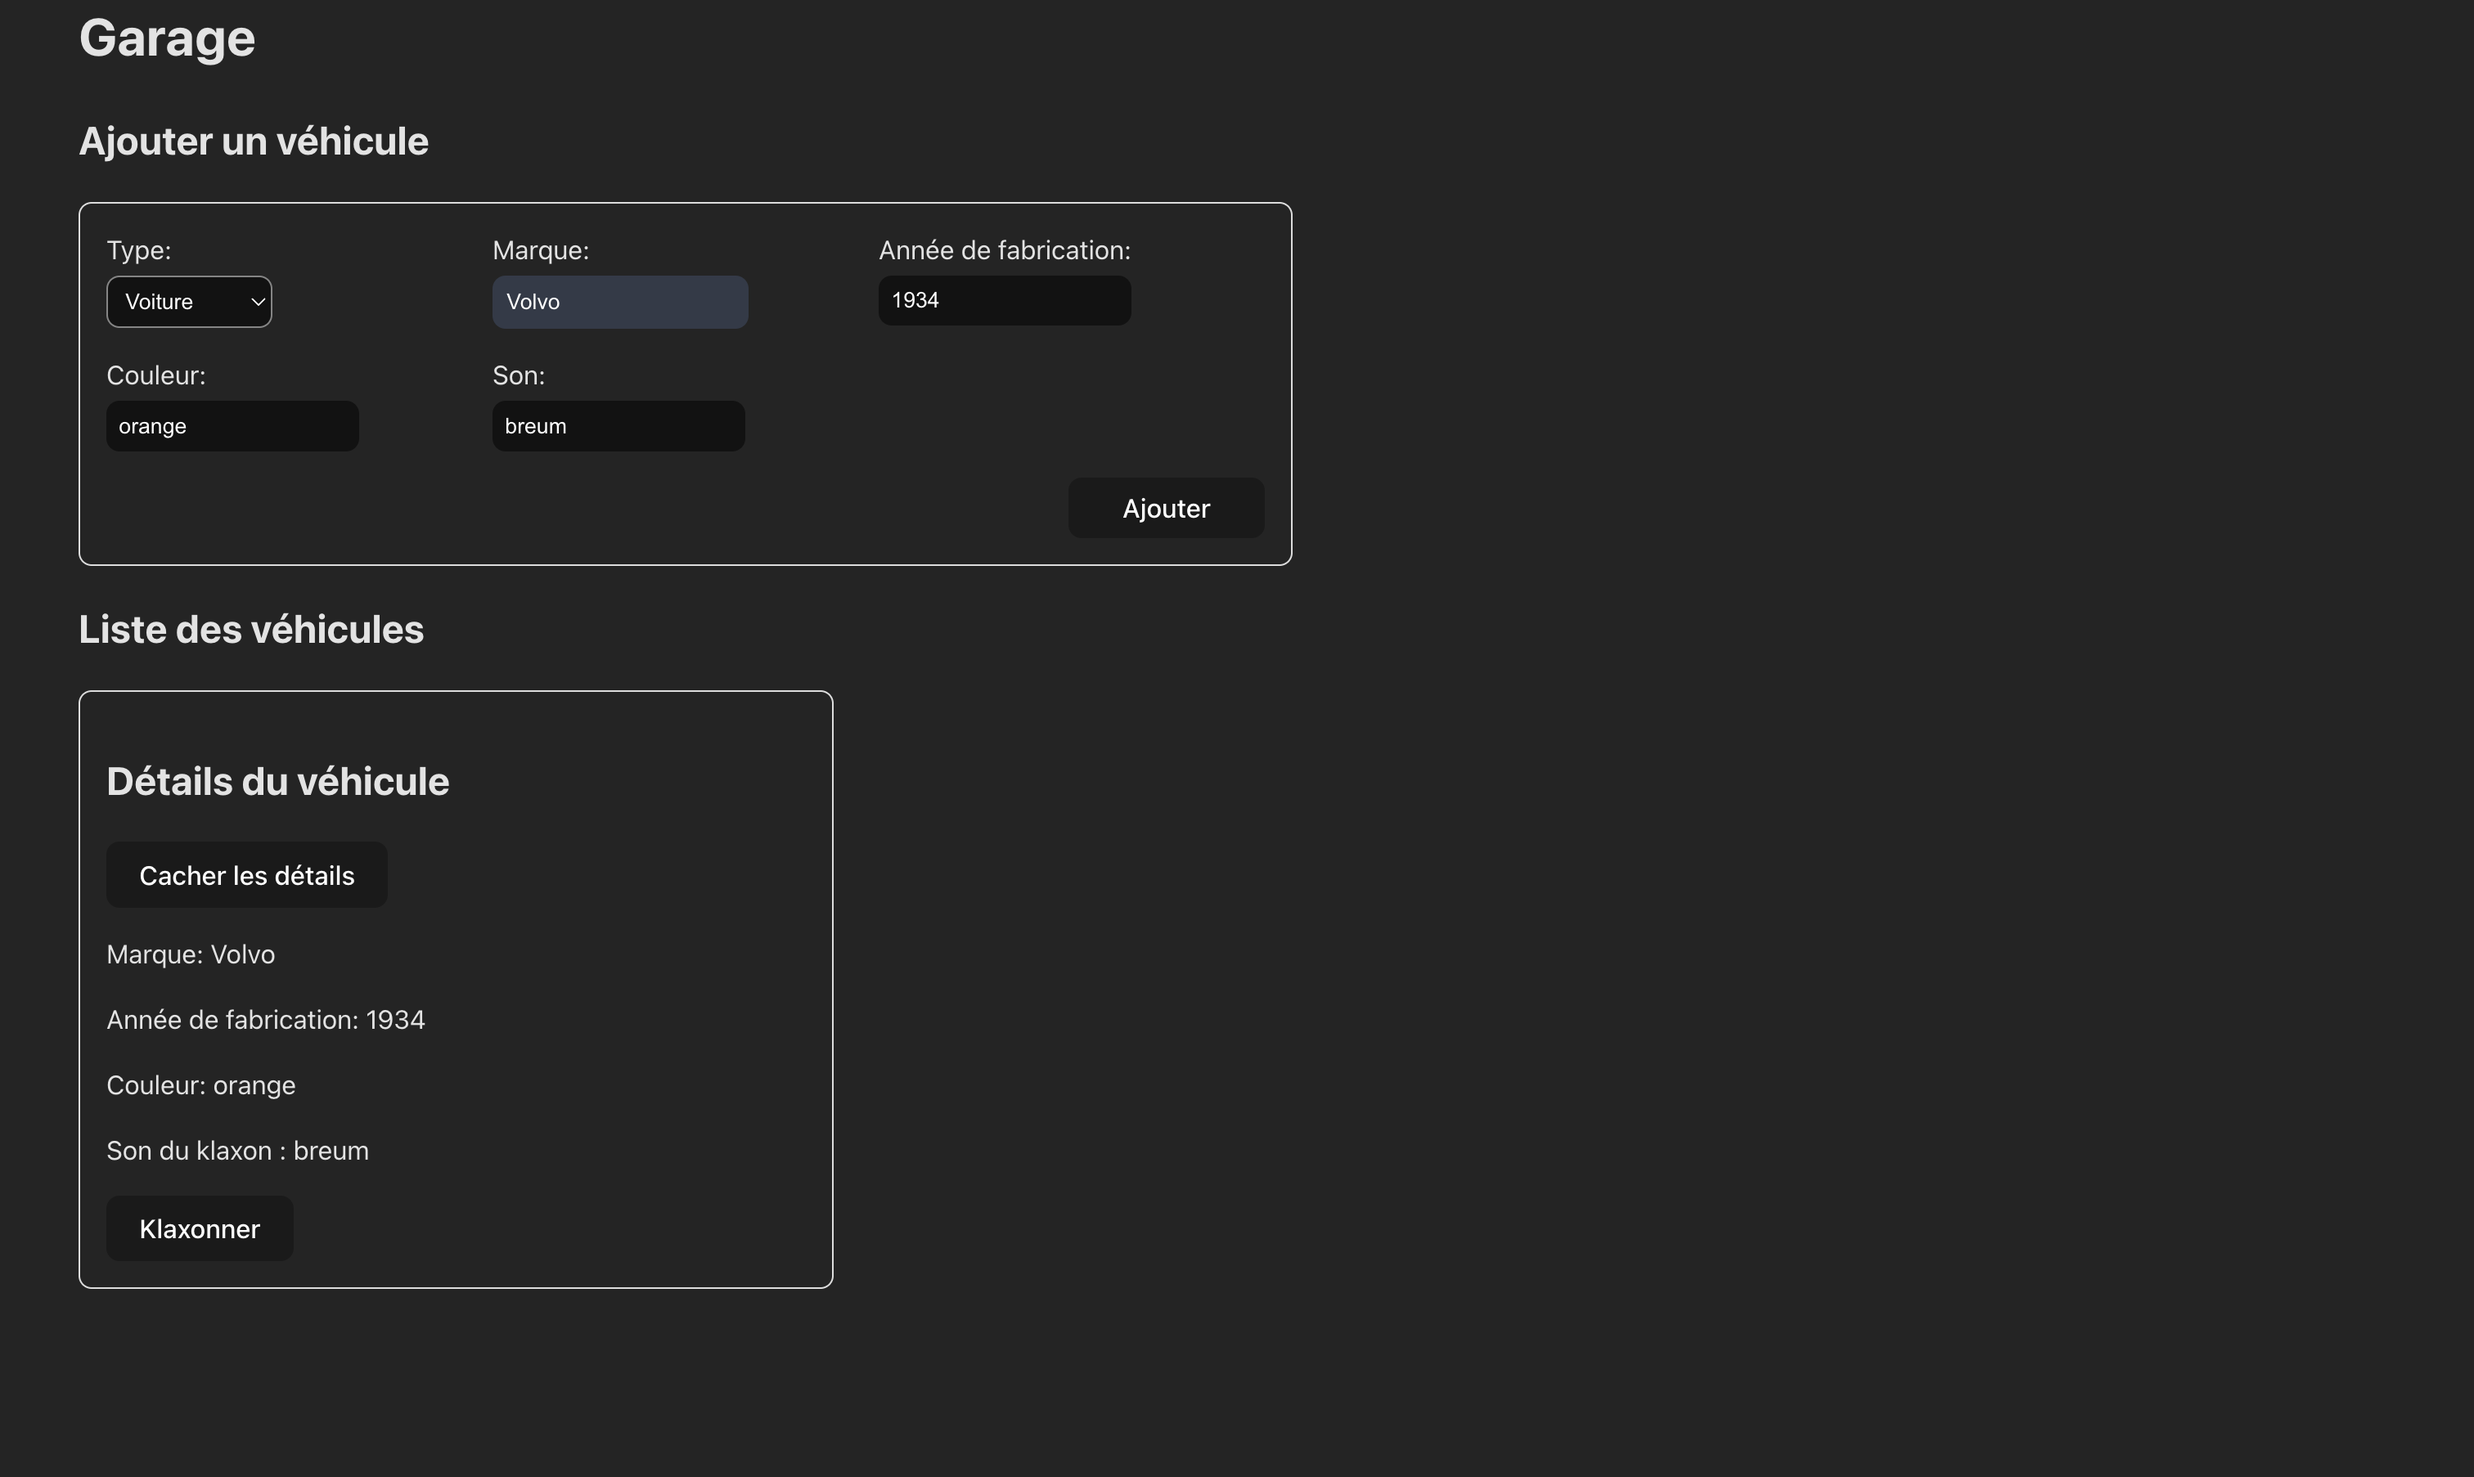
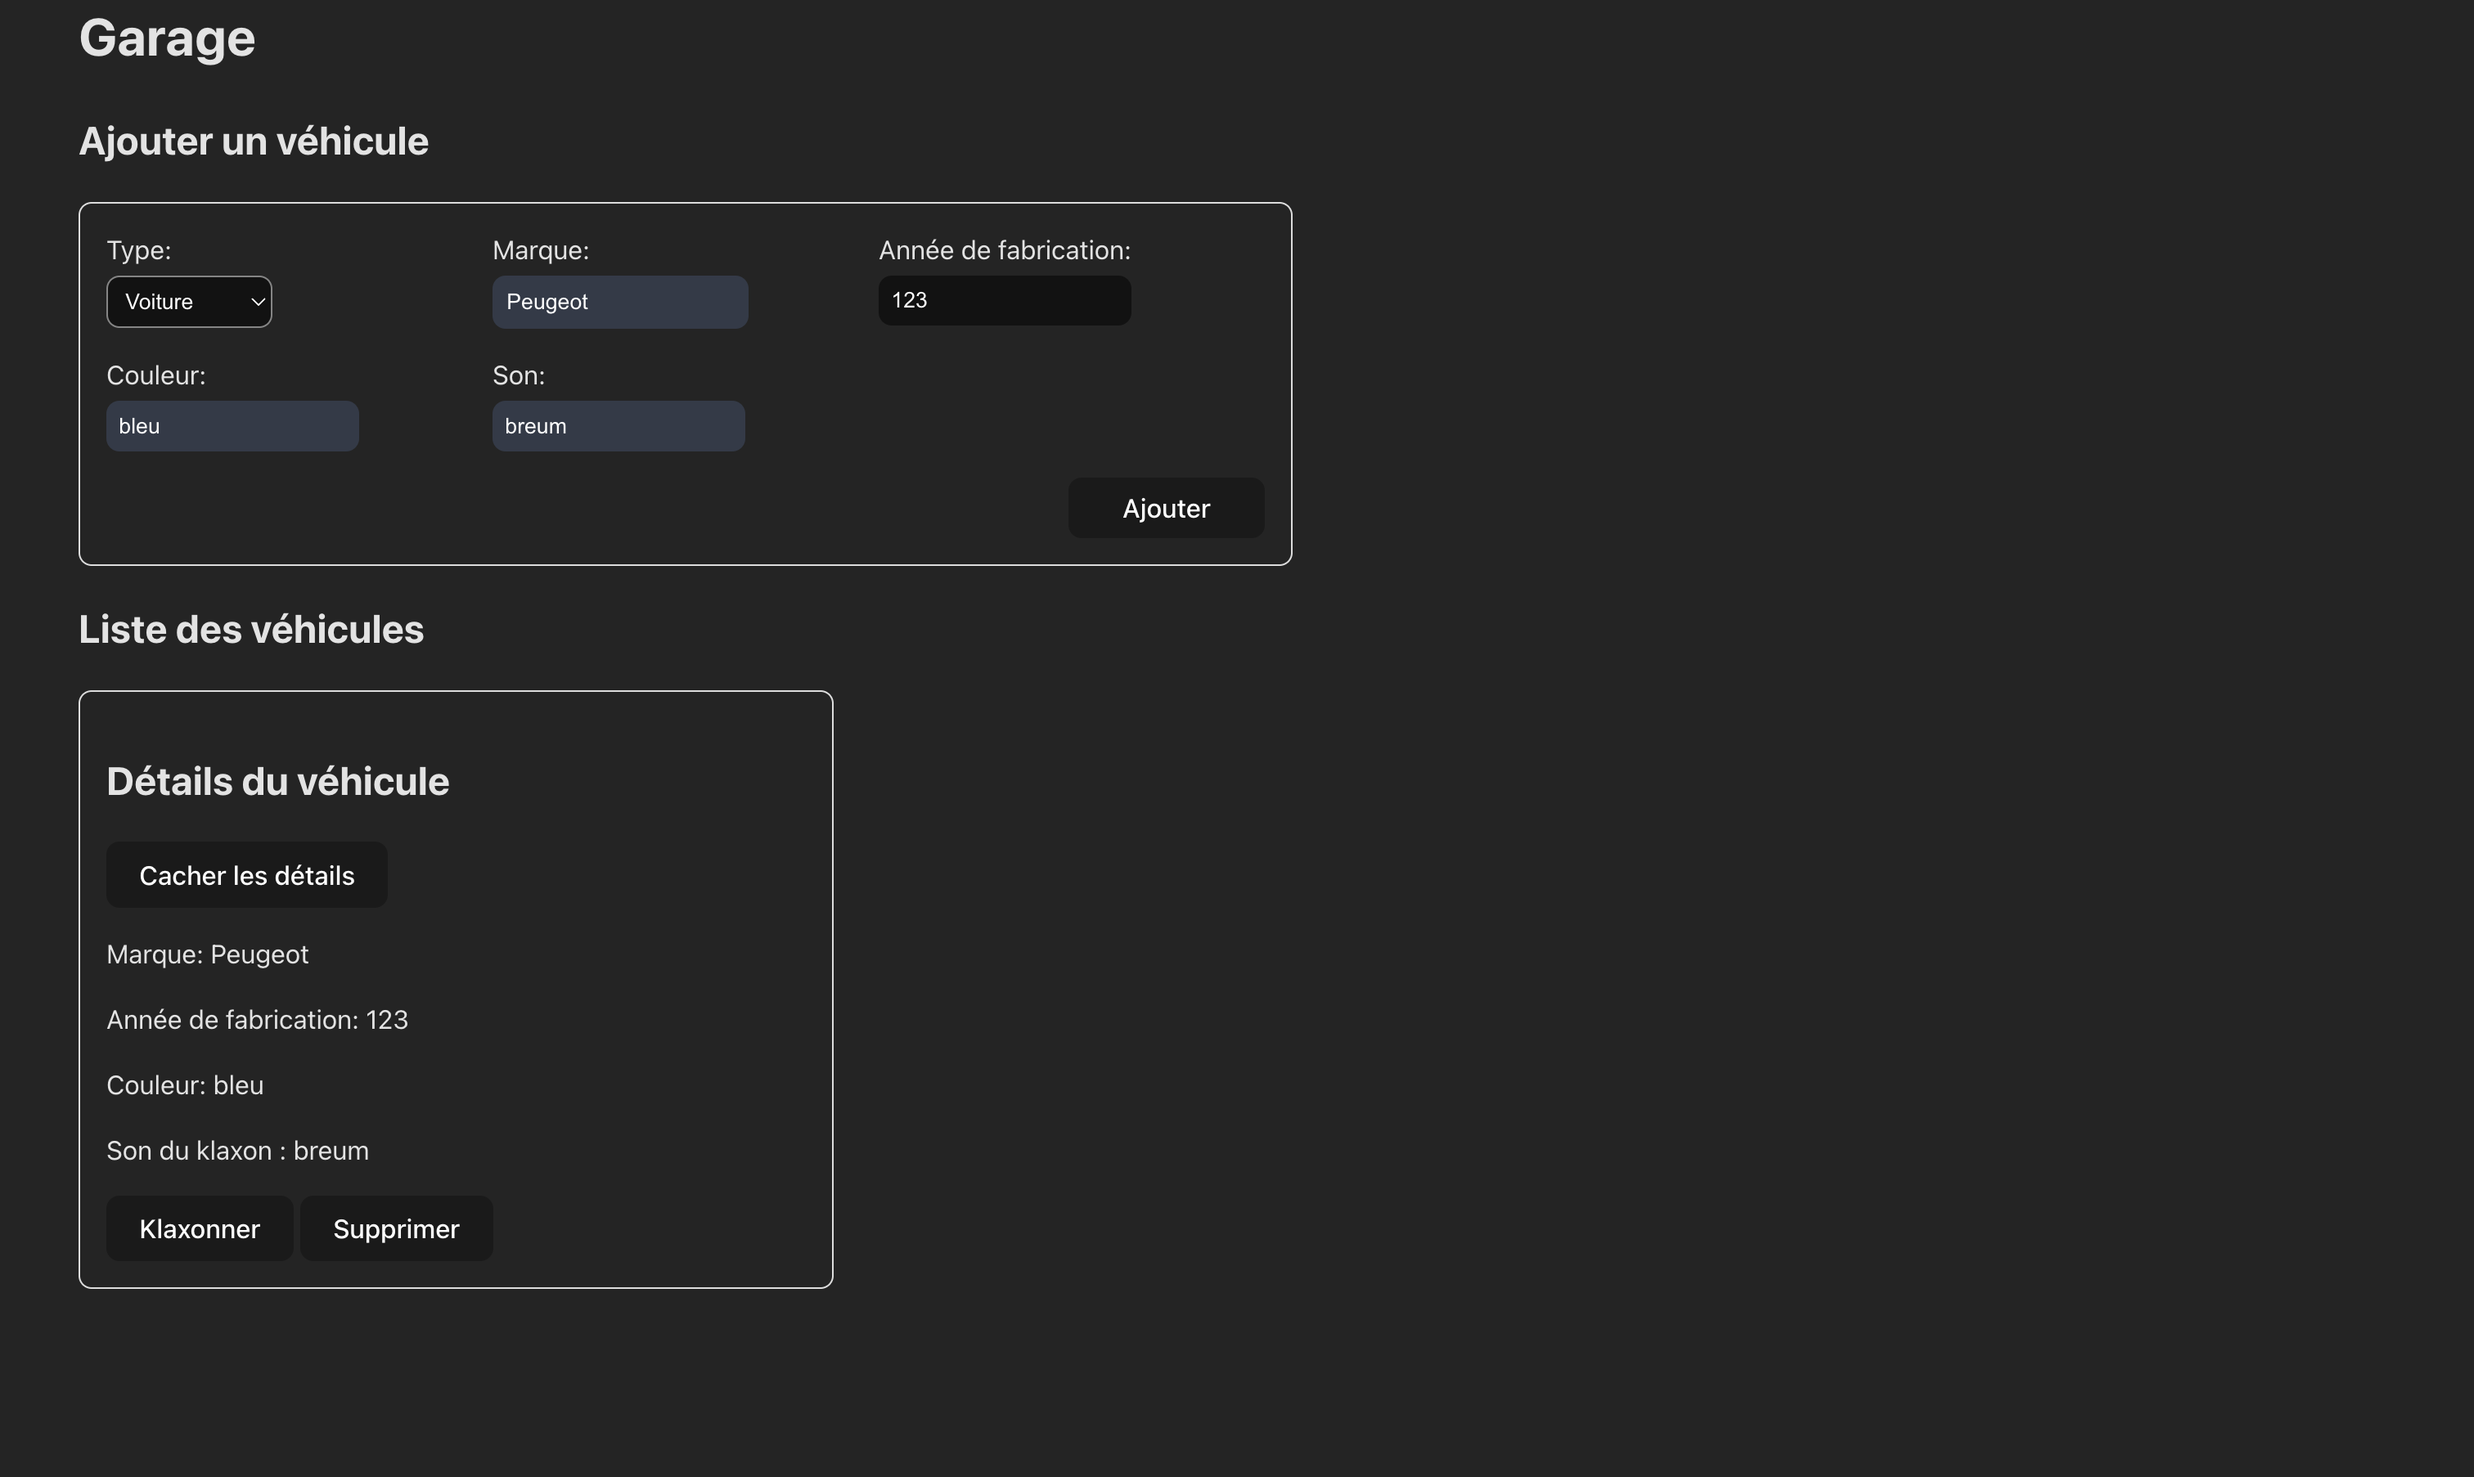
patch README

diff --git a/src/components/Garage/Garage.jsx b/src/components/Garage/Garage.jsx
@@ -31,7 +31,14 @@ class Garage extends React.Component {
         }[type];
 
         this.setState(prevState => ({
-            vehicules: [...prevState.vehicules, <Vehicule key={prevState.vehicules.length} type={type} {...props} />],
+            vehicules: [...prevState.vehicules, <Vehicule key={prevState.vehicules.length} removeVehicle={() => this.removeVehicle(prevState.vehicules.length)} type={type} {...props} />],
+        }));
+    }
+
+    // Remove a vehicle from the list of vehicles
+    removeVehicle = (index) => {
+        this.setState(prevState => ({
+            vehicules: prevState.vehicules.filter((_, i) => i !== index)
         }));
     }
 
@@ -51,7 +58,6 @@ class Garage extends React.Component {
         const style = event.target.style;
 
         const stringRegex = /^[A-Za-z]+$/;
-
 
         this.setState({ [name]: value });
         // Check if the year is valid

diff --git a/src/components/Vehicule/Vehicule.jsx b/src/components/Vehicule/Vehicule.jsx
@@ -38,7 +38,10 @@ class Vehicule extends React.Component {
             <p>Année de fabrication: {anneeDeFabrication}</p>
             <p>Couleur: {couleur}</p>
             <p>Son du klaxon : {son}</p>
-            <button onClick={this.klaxonner}>Klaxonner</button>
+            <div style={{ display: 'flex', gap:'4px' }}>
+              <button onClick={this.klaxonner}>Klaxonner</button>
+              <button onClick={this.props.removeVehicle}>Supprimer</button>
+            </div>
           </div>
         )}
       </div>

diff --git a/README.md b/README.md
@@ -43,7 +43,7 @@ Après l'ajout de véhicules, la liste des véhicules est affichée dans le gara
 
 ### Visionnage des détails d'un véhicule
 
-En cliquant sur un véhicule, les détails de celui-ci sont affichés.
+En cliquant sur un véhicule, les détails de celui-ci sont affichés. Il peut alors choisir de supprimer le véhicule ou de le klaxonner.
 
 <img src="src/assets/images/details.png" width="500">
 
@@ -53,3 +53,5 @@ En cliquant sur un véhicule, les détails de celui-ci sont affichés.
 Lorsque l'utilisateur clique sur le bouton "Klaxonner", une alerte est affichée.
 
 <img src="src/assets/images/honk-alert.png" width="500">
+
+#### Suppression d'un véhicule
